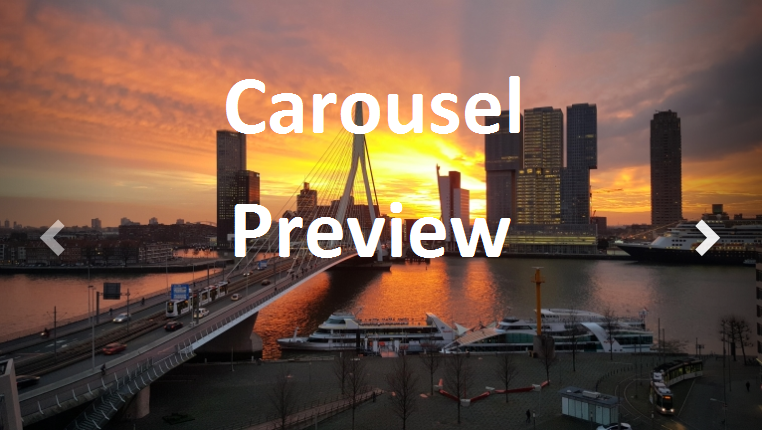
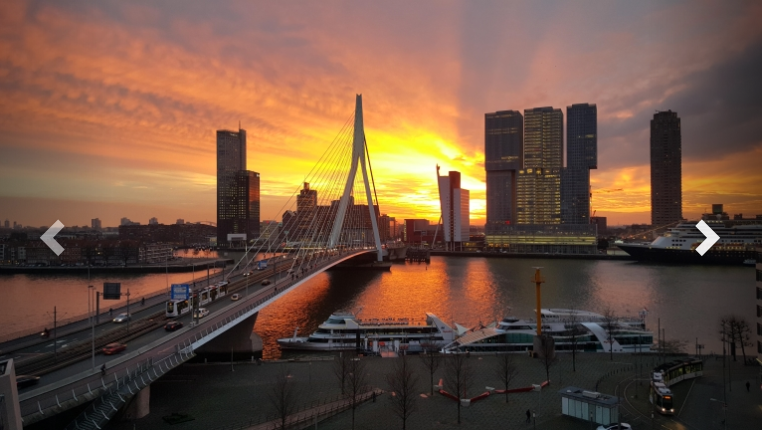
Add preview image

Changed region(s): [[0.2717, 0.1814, 0.6942, 0.3326], [0.3018, 0.4535, 0.6942, 0.6047]]

diff --git a/webpack.config.js b/webpack.config.js
@@ -30,7 +30,8 @@ module.exports = {
     plugins: [
         new CopyWebpackPlugin([
             { from: "src/**/*.js" },
-            { from: "src/**/*.xml" }
+            { from: "src/**/*.xml" },
+            { from: "src/**/*.png" }
         ], {
             copyUnmodified: true
         }),
